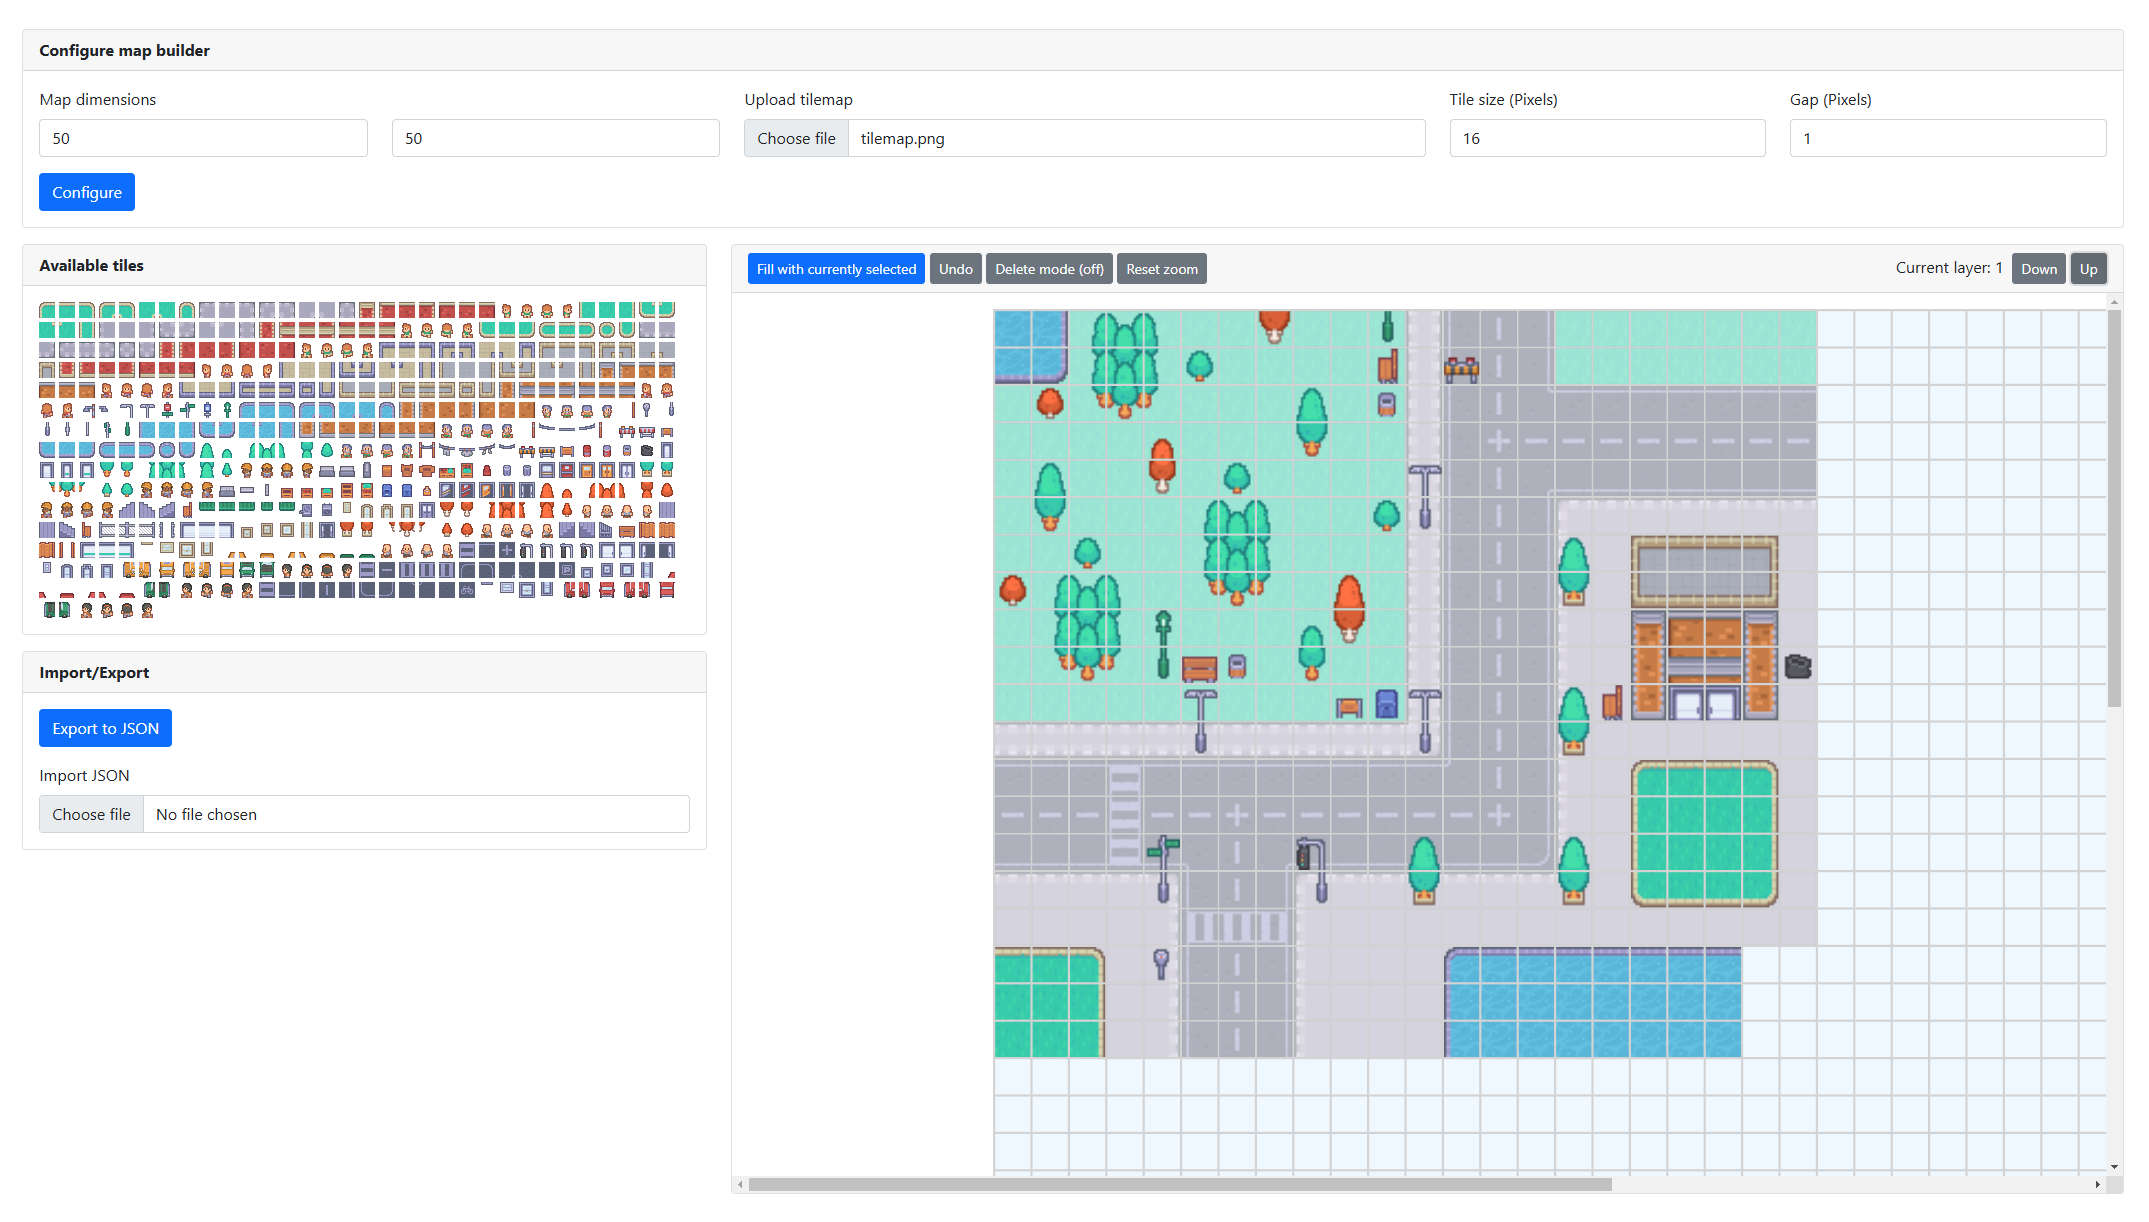
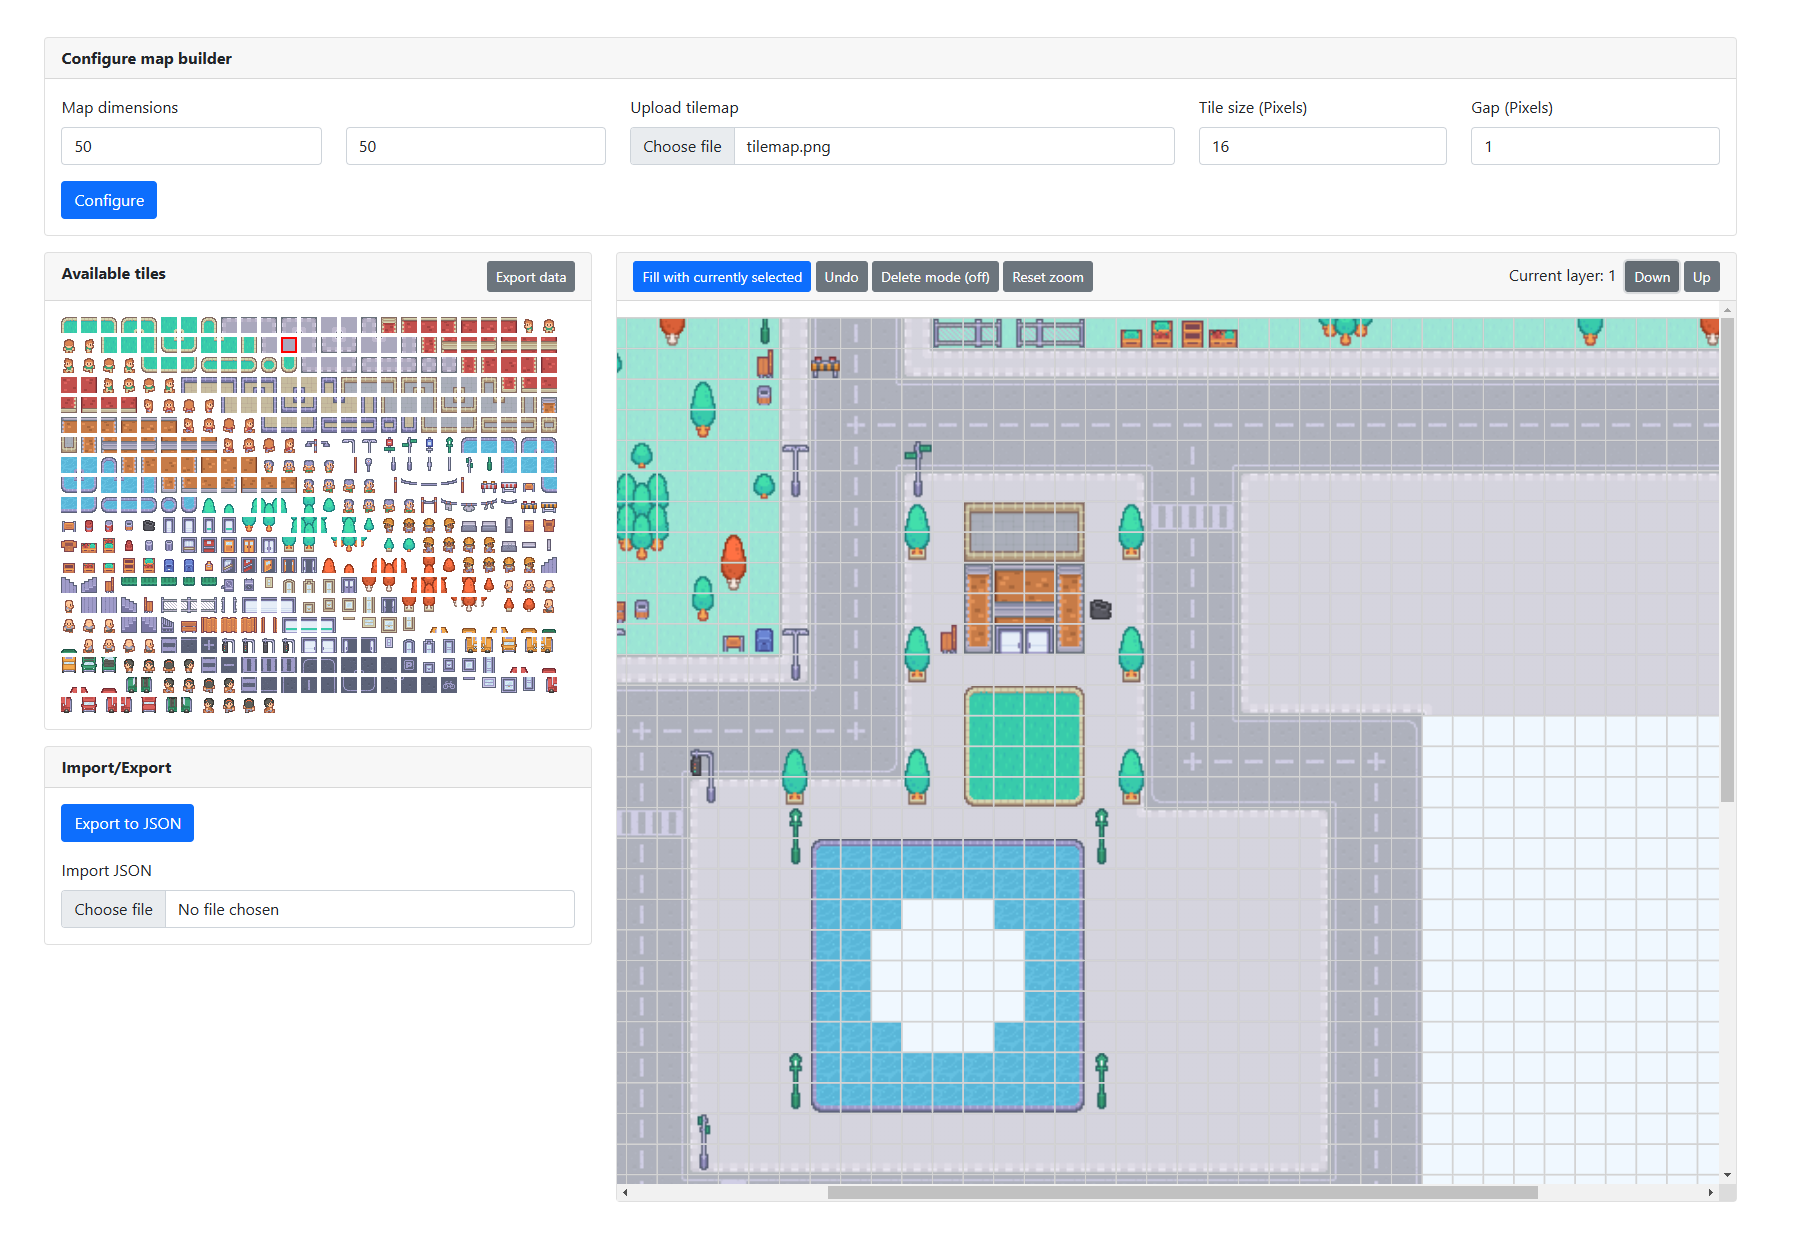
Update interface screenshot and remove unused export

diff --git a/editor.js b/editor.js
@@ -294,7 +294,6 @@ document.getElementById('removeTile').addEventListener('click', function() {
 
 // Export
 document.getElementById('exportMap').addEventListener('click', exportTilemap);
-document.getElementById('exportTileData').addEventListener('click', exportTiles);
 
 function exportTilemap() {
     const mapWidth = parseInt(document.getElementById('mapWidth').value) || 10;
@@ -318,20 +317,6 @@ function exportTilemap() {
     }
 
     toJson('level', tilemap);
-}
-
-function exportTiles() {
-    if (tilesData.length === 0) {
-        return;
-    }    
-
-    const filteredData = tilesData.map(tile => ({
-        name: tile.name,
-        x: tile.x,
-        y: tile.y
-    }));
-
-    toJson('tile_data', filteredData);
 }
 
 function toJson(fileName, data) {

diff --git a/index.html b/index.html
@@ -91,9 +91,6 @@
                     <div class="card mb-3">       
                         <div class="card-header">
                             <b>Available tiles</b>
-                            <span style="float: right;">
-                                <button id="exportTileData" class="btn btn-secondary btn-sm">Export data</button>
-                            </span>
                         </div>
                         <div id="tiles" class="p-3 d-flex flex-wrap gap-1">
                         </div>
